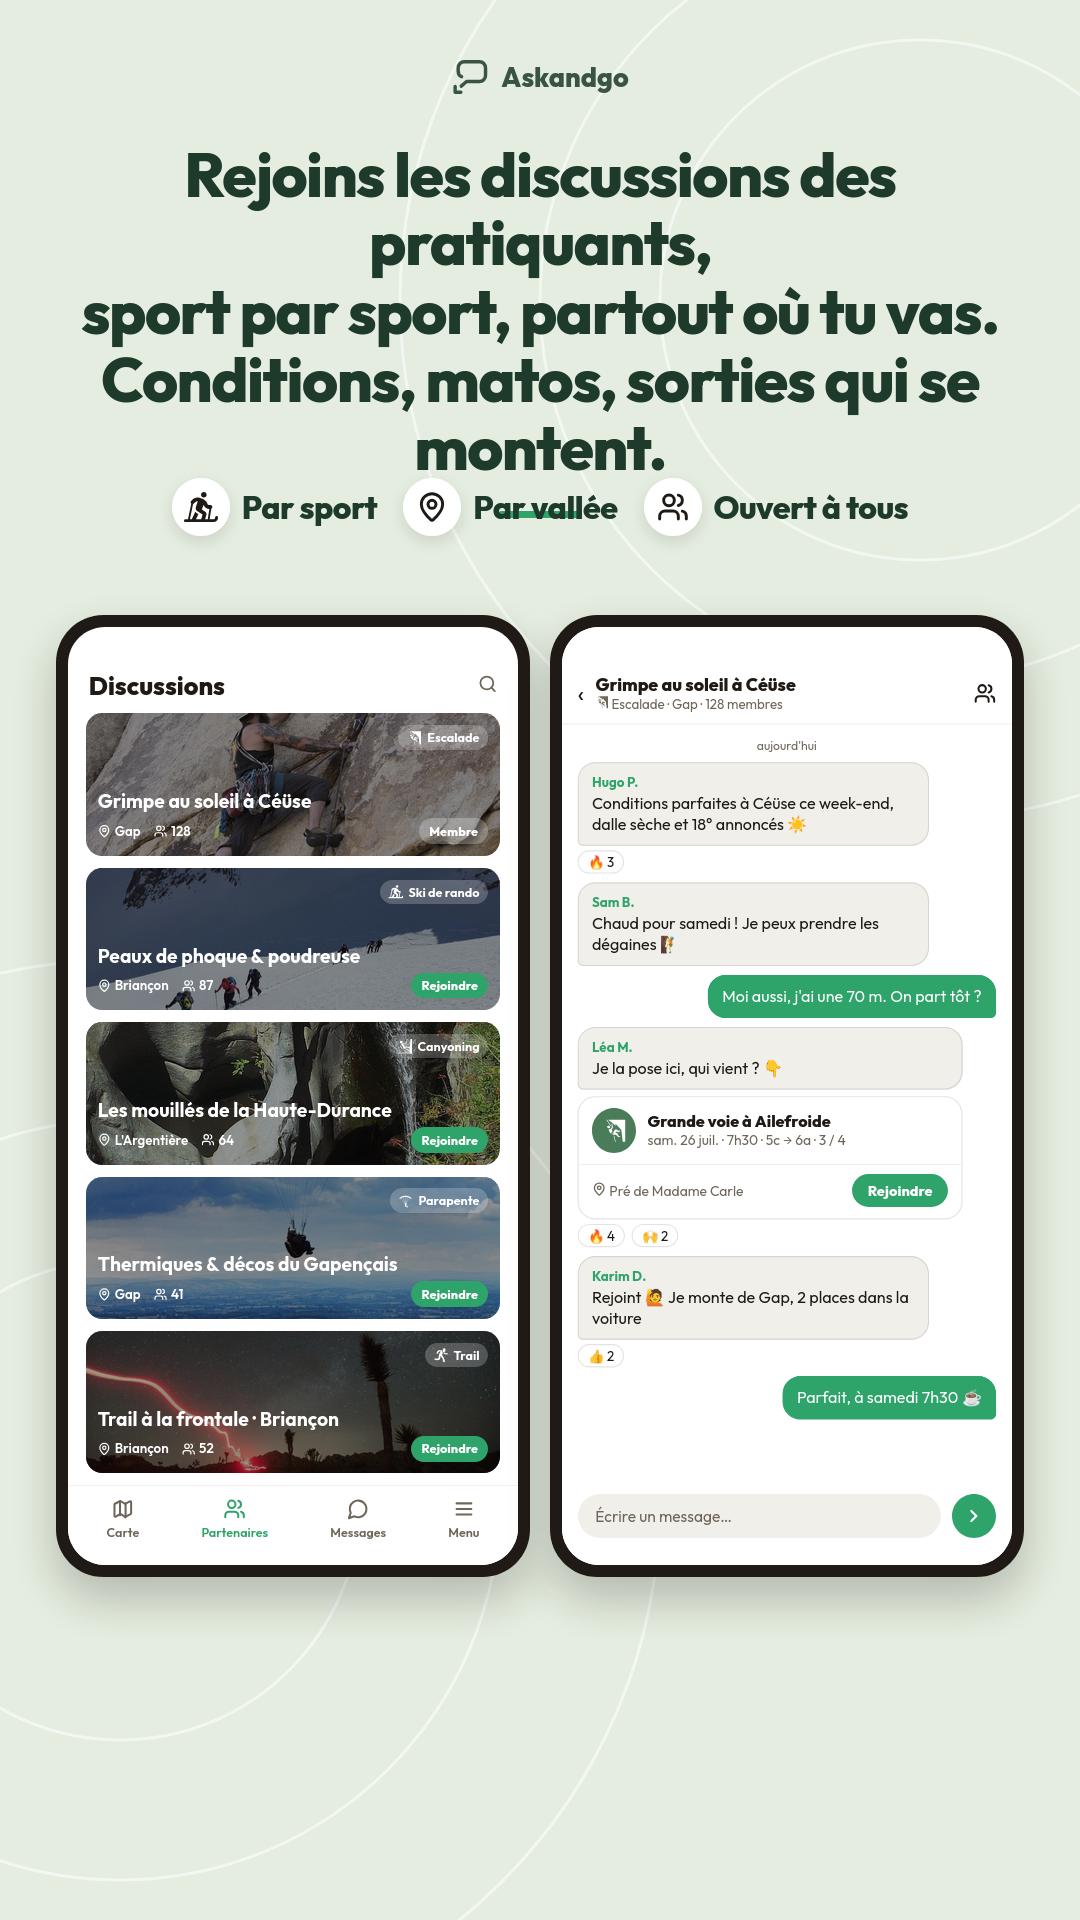
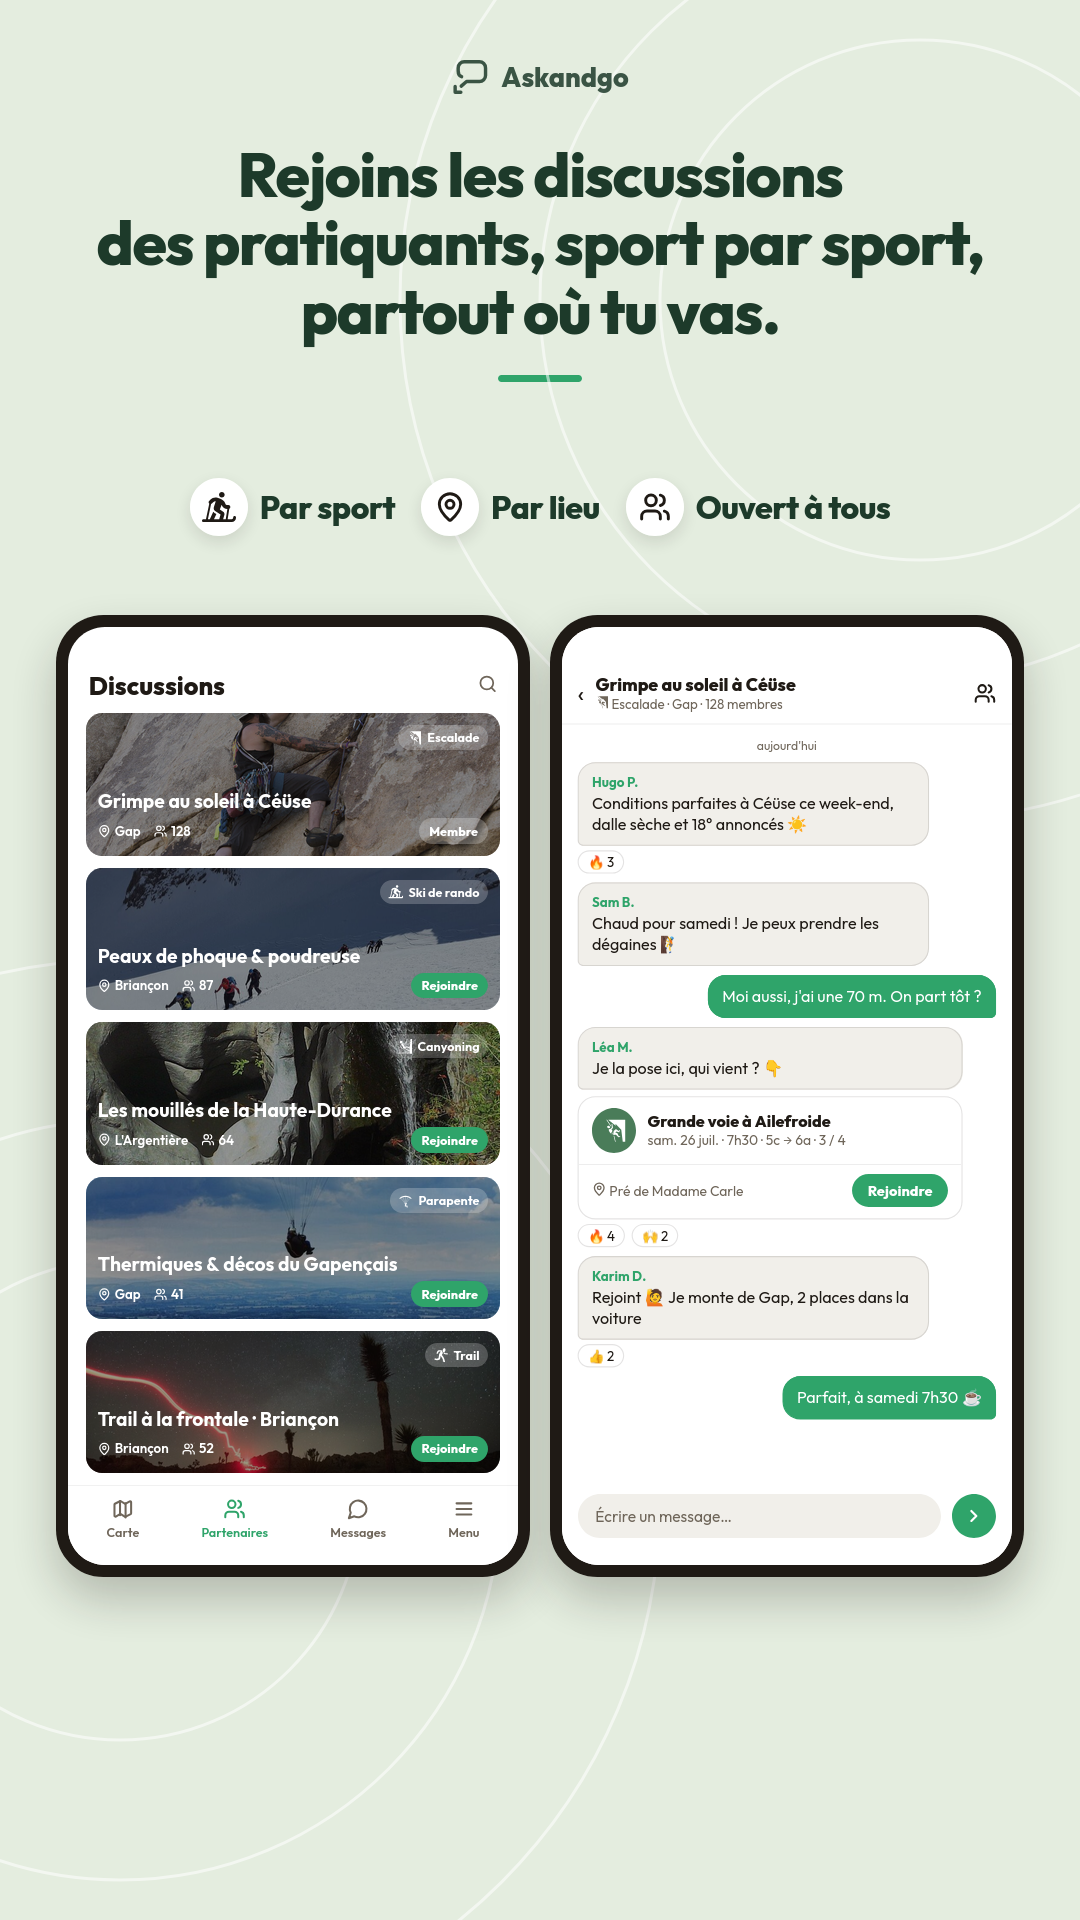
fix(play): image 4 title on three lines; keyword « Par lieu » instead of « Par vallée »

Changed region(s): [[0.0611, 0.0625, 0.9167, 0.2812]]

diff --git a/assets/play-store/askandgo/two.py b/assets/play-store/askandgo/two.py
@@ -136,8 +136,8 @@ thread_body = f'''<div class="zoomwrap" style="background:#FFF">
 <div style="padding:10px 14px 24px;display:flex;align-items:center;gap:10px"><div style="flex:1;background:#F1EFEA;border-radius:999px;padding:11px 16px;font-size:14px;color:{SEC}">Écrire un message…</div><span style="width:40px;height:40px;border-radius:50%;background:{GREEN};display:inline-flex;align-items:center;justify-content:center">{li('chev',18,'#FFF',2.6)}</span></div></div>'''
 
 if which == '4':
-    html = side_by_side("Rejoins les discussions des pratiquants,<br>sport par sport, partout où tu vas.<br>Conditions, matos, sorties qui se montent.", '', canaux_body, thread_body,
-                        [(sp('ski-touring', 34, INK), 'Par sport'), (li('pin', 32, INK), 'Par vallée'), (li('users', 32, INK), 'Ouvert à tous')])
+    html = side_by_side("Rejoins les discussions<br>des pratiquants, sport par sport,<br>partout où tu vas.", '', canaux_body, thread_body,
+                        [(sp('ski-touring', 34, INK), 'Par sport'), (li('pin', 32, INK), 'Par lieu'), (li('users', 32, INK), 'Ouvert à tous')])
 elif which == '3':
     html = two_screens("Des partenaires de sortie :<br>même sport, même zone,<br>mêmes dates.", '', partenaires_body, dispo_body)
 else:
